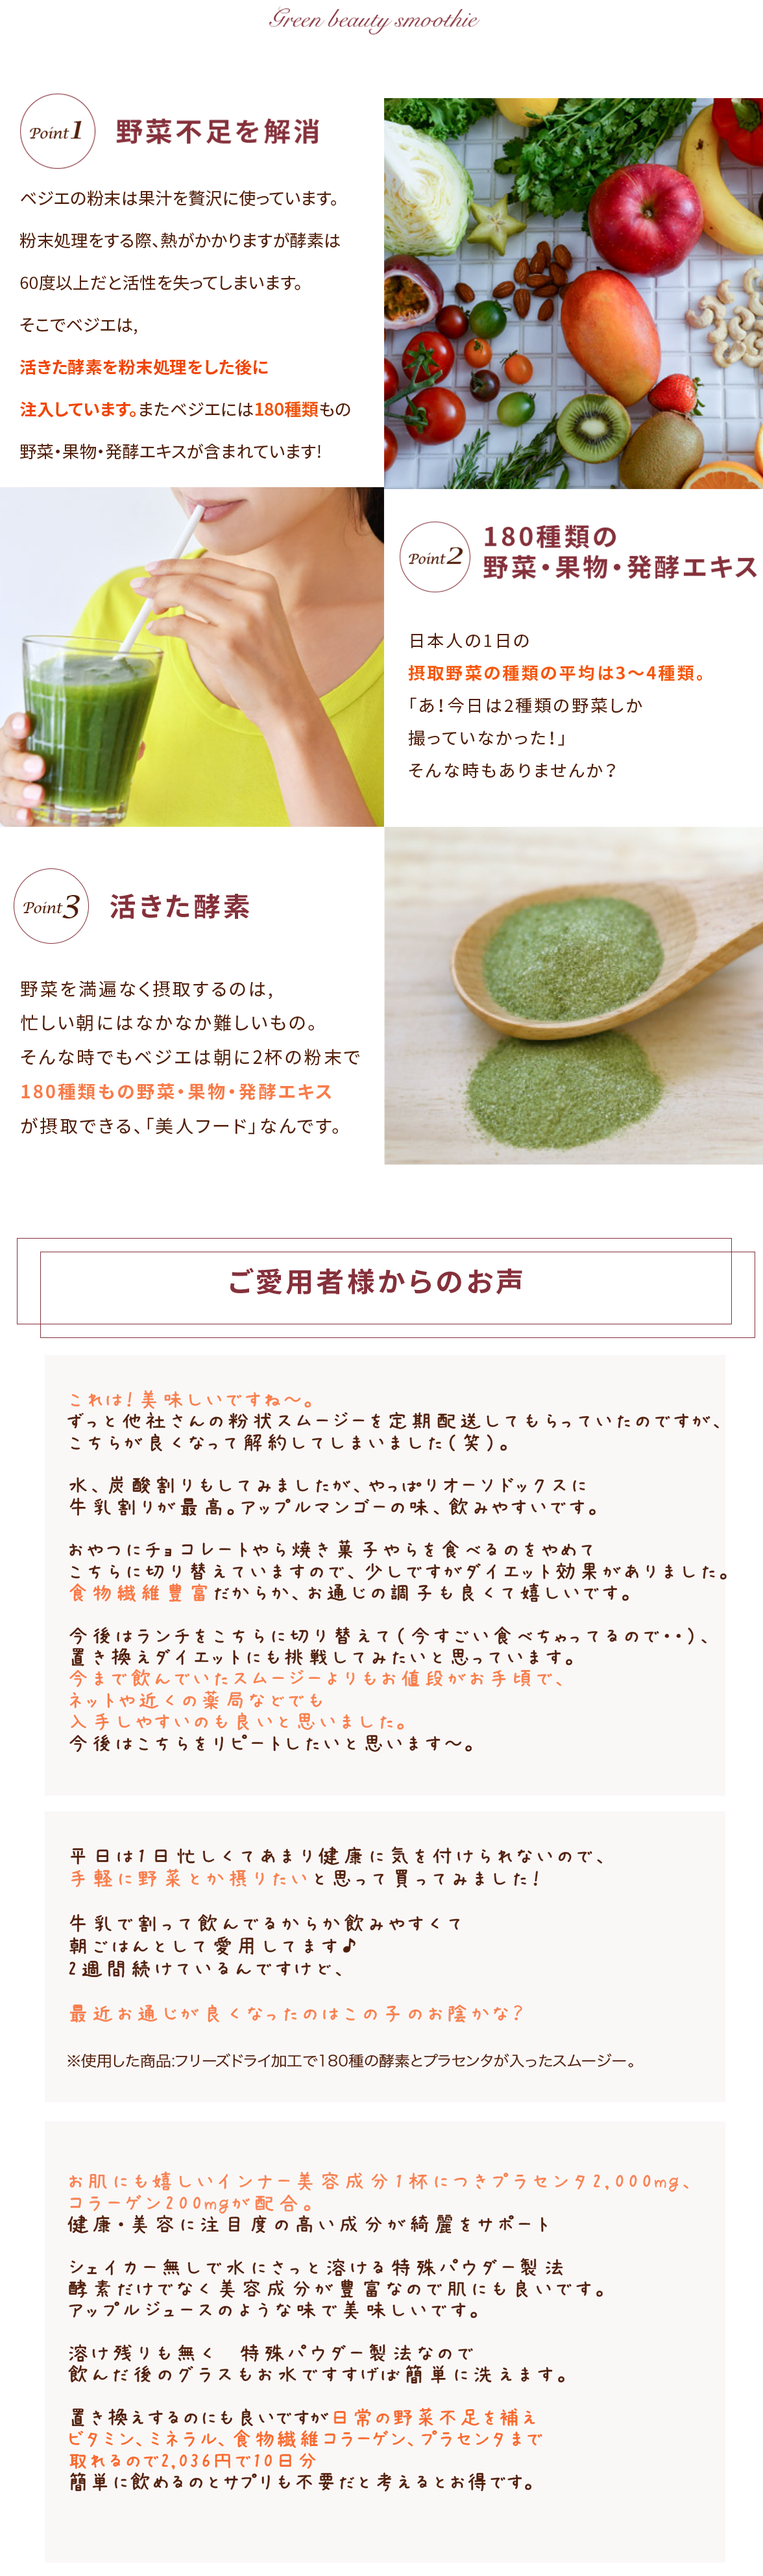
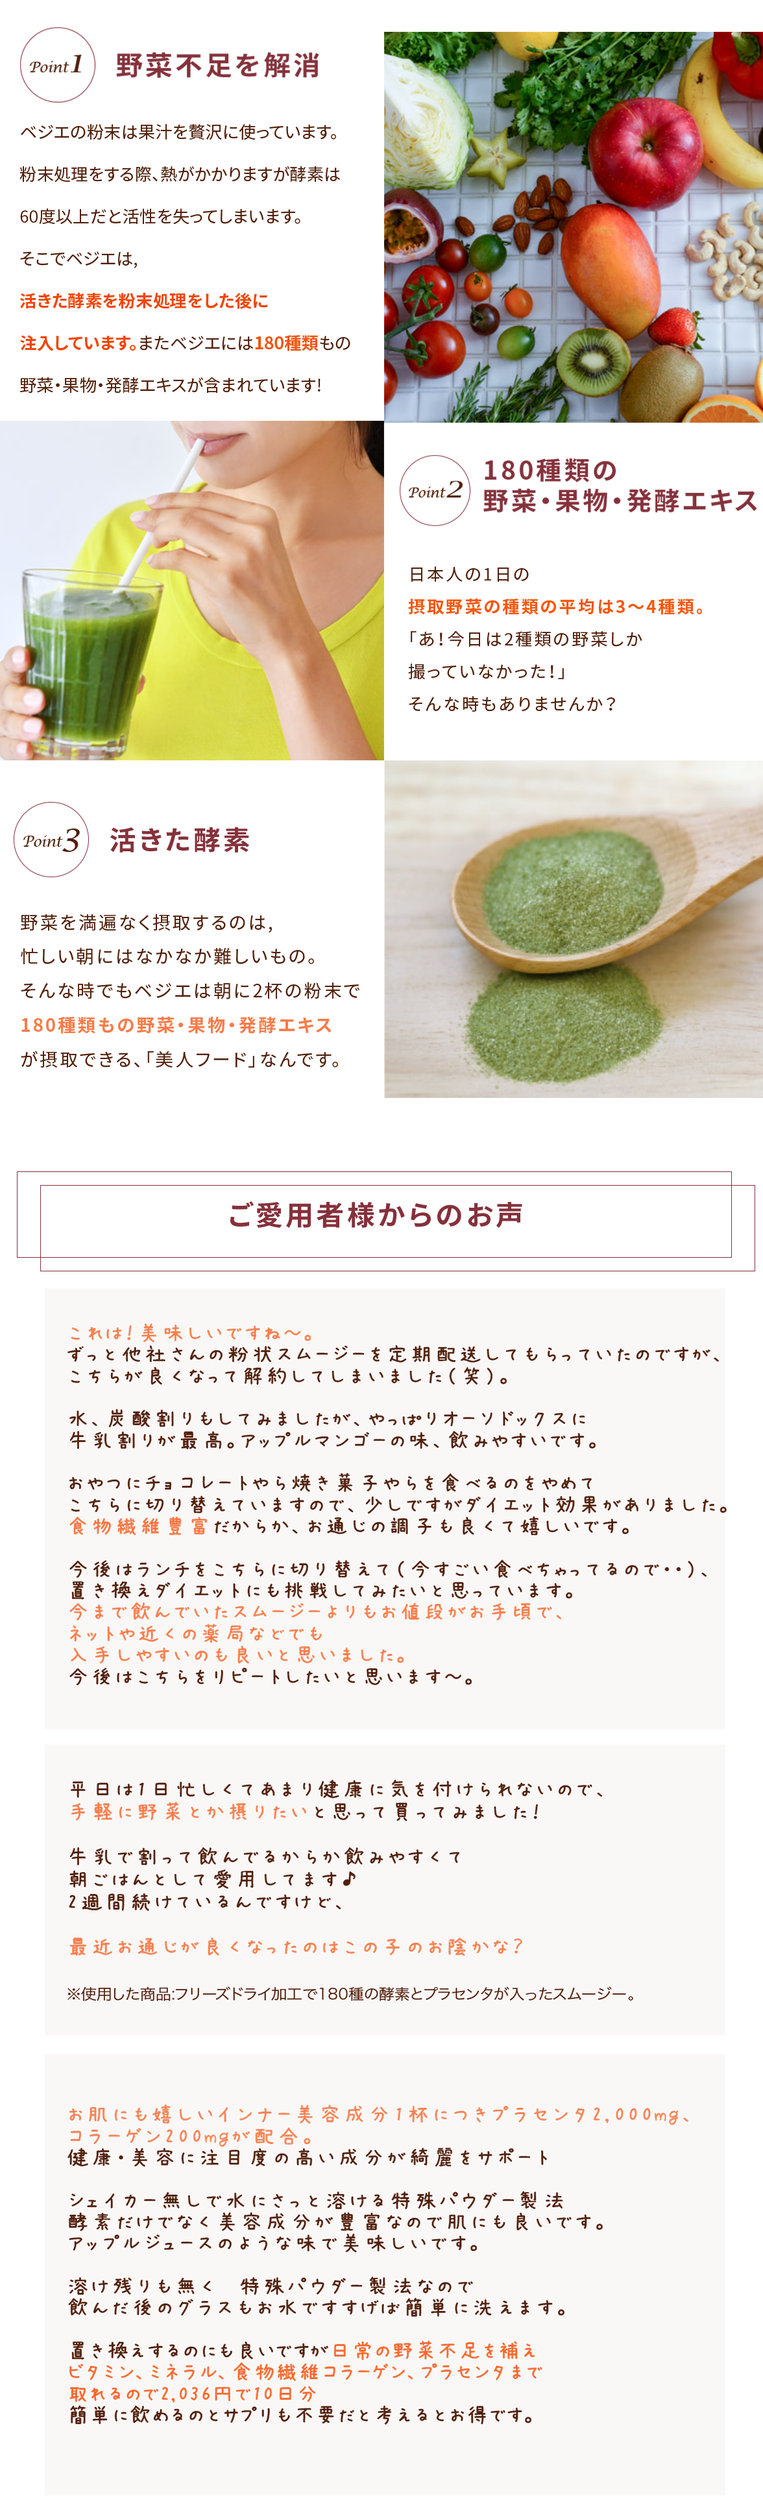
1200pxWidthScreen

diff --git a/index.html b/index.html
@@ -32,15 +32,17 @@
         <br>
         <div class="container boxshadow">
             <div class="ctn" style="width:98%; margin: 0 auto;">
-                <div class="left_btn"></div>
-                <div class="right_btn"></div>
                 <center>
-                    <img class="sp" src="images/btn_sp.png" / width="80%" style="padding:1.5em 0;">
+                    <img class="sp" src="images/btn_sp.png" width="80%" style="padding:1.5em 0;/">
                 </center>
                 <div class="download-info">
-                    <center class="title">
-                        <img src="images/image2_header.png" />
-                    </center>
+                        <div class="left_btn"></div>
+                        <div class="right_btn"></div>
+                        <span class="sp-title">
+                             <img  src="images/image2_header.png"/>
+                        </span>
+                        <br><br>
+                        <img class="pc"  src="images/image2_header.png"/>
                     <p>
                         <br>
                         <span class="emphasis">従業員の健康管理</span>
@@ -120,7 +122,7 @@
                     朝ごはんを抜く従業員が沢山いることを 経営者のみなさんは知っていますか？
                     <br>
                     <br> 朝食は抜いても大丈夫！そんなことはありません。
-                    <br> 健康だけでなく美容にも 良いベジエのグリーンスムージー。
+                    <br> 健康だけでなく美容にも 良いベジエのグリーン酵素スムージー。
                     <br>
                     <br> 生きたままの酵素が入ったベジエには、 腸内環境を整える作用があります。
                     <br> 腸は第二の脳とも言われるとても大切な器官。
@@ -149,8 +151,8 @@
                     <h2><i class="fa fa-circle-o" aria-hidden="true"></i>モニター規約・本規約</h2>
                 </header>
                 <ul class="default">
-                    <li class="disable"> <i class="fa fa-check fa-lg" aria-hidden="true"></i>会社の経営者様。(女性社員5名以上。)</li>
-                    <li class="disable"> <i class="fa fa-check fa-lg" aria-hidden="true"></i>1ヶ月間、ベジエグリーンスムージーをお試しいただき、 SNSアカウントでの拡散、感想アンケートにお答えいただける方。
+                    <li class="disable"> <i class="fa fa-check fa-lg" aria-hidden="true"></i>会社の経営者様。</li>
+                    <li class="disable"> <i class="fa fa-check fa-lg" aria-hidden="true"></i>1ヶ月間、ベジエグリーン酵素スムージーをお試しいただき、 SNSアカウントでの拡散、感想アンケートにお答えいただける方。
                     </li>
                     <li class="disable"> <i class="fa fa-check fa-lg" aria-hidden="true"></i>SNSアカウントをお持ちの方(Facebook、Twitter、Instagram)</li>
                     <li class="disable"> <i class="fa fa-check fa-lg" aria-hidden="true"></i>美容、健康、食事等に興味のある方</li>
@@ -164,7 +166,7 @@
                     <h2><i class="fa fa-circle-o" aria-hidden="true"></i>賞金</h2>
                 </header>
                 <ul class="default">
-                    <li class="disable">ベジエ酵素グリーンスムージー 10袋</li>
+                    <li class="disable">ベジエ酵素グリーン酵素スムージー 10袋</li>
                 </ul>
             </section>
             <!-- 抽選発表-->
@@ -306,7 +308,7 @@
             <ul class="default">
                 <li class="disable">
                     参加者募集期間:2017年10月13日(金)〜10/27(金)
-                    <br> 本キャンペーン概要:ベジエ(グリーンスムージー)のご試飲
+                    <br> 本キャンペーン概要:ベジエ(グリーン酵素スムージー)のご試飲
                     <br> 参加者:参加者は以下の事項に該当する方に限定させていただきますので、
                     <br> あらかじめご了承ください。
                     <br>
@@ -321,7 +323,8 @@
     <br>
     <br>
     <article class="five-col">
-        <div class="container"></div>
+    <center><img src="images/image5_header.png" width="30%"></center>
+    <div class="container"></div>
     </article>
     <article class="five-col-sp">
         <div class="container">
@@ -479,7 +482,7 @@
                 </header>
                 <ul class="default">
                     <li class="disable"> <i class="fa fa-check fa-lg" aria-hidden="true"></i>会社の経営者様。(女性社員5名以上。)</li>
-                    <li class="disable"> <i class="fa fa-check fa-lg" aria-hidden="true"></i>1ヶ月間、ベジエグリーンスムージーをお試しいただき、 SNSアカウントでの拡散、感想アンケートにお答えいただける方。
+                    <li class="disable"> <i class="fa fa-check fa-lg" aria-hidden="true"></i>1ヶ月間、ベジエグリーン酵素スムージーをお試しいただき、 SNSアカウントでの拡散、感想アンケートにお答えいただける方。
                     </li>
                     <li class="disable"> <i class="fa fa-check fa-lg" aria-hidden="true"></i>SNSアカウントをお持ちの方(Facebook、Twitter、Instagram)</li>
                     <li class="disable"> <i class="fa fa-check fa-lg" aria-hidden="true"></i>美容、健康、食事等に興味のある方</li>
@@ -493,7 +496,7 @@
                     <h2><i class="fa fa-circle-o" aria-hidden="true"></i>賞金</h2>
                 </header>
                 <ul class="default">
-                    <li class="disable">ベジエ酵素グリーンスムージー 10袋</li>
+                    <li class="disable">ベジエ酵素グリーン酵素スムージー 10袋</li>
                 </ul>
             </section>
             <!-- 抽選発表-->
@@ -636,7 +639,7 @@
             <ul class="default">
                 <li class="disable">
                     参加者募集期間:2017年10月13日(金)〜10/27(金)
-                    <br> 本キャンペーン概要:ベジエ(グリーンスムージー)のご試飲
+                    <br> 本キャンペーン概要:ベジエ(グリーン酵素スムージー)のご試飲
                     <br> 参加者:参加者は以下の事項に該当する方に限定させていただきますので、
                     <br> あらかじめご了承ください。
                     <br>
@@ -707,7 +710,7 @@
                 </header>
                 <ul class="default">
                     <li class="disable"> <i class="fa fa-check fa-lg" aria-hidden="true"></i>会社の経営者様。(女性社員5名以上。)</li>
-                    <li class="disable"> <i class="fa fa-check fa-lg" aria-hidden="true"></i>1ヶ月間、ベジエグリーンスムージーをお試しいただき、 SNSアカウントでの拡散、感想アンケートにお答えいただける方。
+                    <li class="disable"> <i class="fa fa-check fa-lg" aria-hidden="true"></i>1ヶ月間、ベジエグリーン酵素スムージーをお試しいただき、 SNSアカウントでの拡散、感想アンケートにお答えいただける方。
                     </li>
                     <li class="disable"> <i class="fa fa-check fa-lg" aria-hidden="true"></i>SNSアカウントをお持ちの方(Facebook、Twitter、Instagram)</li>
                     <li class="disable"> <i class="fa fa-check fa-lg" aria-hidden="true"></i>美容、健康、食事等に興味のある方</li>
@@ -721,7 +724,7 @@
                     <h2><i class="fa fa-circle-o" aria-hidden="true"></i>賞金</h2>
                 </header>
                 <ul class="default">
-                    <li class="disable">ベジエ酵素グリーンスムージー 10袋</li>
+                    <li class="disable">ベジエ酵素グリーン酵素スムージー 10袋</li>
                 </ul>
             </section>
             <!-- 抽選発表-->
@@ -864,7 +867,7 @@
             <ul class="default">
                 <li class="disable">
                     参加者募集期間:2017年10月13日(金)〜10/27(金)
-                    <br> 本キャンペーン概要:ベジエ(グリーンスムージー)のご試飲
+                    <br> 本キャンペーン概要:ベジエ(グリーン酵素スムージー)のご試飲
                     <br> 参加者:参加者は以下の事項に該当する方に限定させていただきますので、
                     <br> あらかじめご了承ください。
                     <br>

diff --git a/assets/css/original.css b/assets/css/original.css
@@ -31,7 +31,7 @@
     height: 100px;
 }
 body {
-    max-width: 1480px;
+    max-width: 1200px;
     margin: 0 auto;
     -webkit-box-shadow: 2px 4px 27px 3px rgba(0, 0, 0, 0.75);
     -moz-box-shadow: 2px 4px 27px 3px rgba(0, 0, 0, 0.75);
@@ -89,8 +89,8 @@ body {
 #hero {
     background: url("images/image1.jpg") no-repeat;
     background-position: top center;
-    background-size: cover;
-    min-height: 1250px;
+    background-size: contain;
+    min-height: 900px;
 }
 .sp-title img {
     display: none;
@@ -124,23 +124,23 @@ body {
     background: url("images/image2_bg.jpg") no-repeat;
     display: block;
     background-size: cover;
-    height:1700px;
+    height:1800px;
 }
 .second-col .container {
     background-color: white;
     border-radius: 5px;
     top: 10em;
-    width: 85%;
+    width: 90%;
     margin: 0 auto;
 }
 .download-info {
     width: 100%;
-    padding: 3em 2em 1em 5em;
+    padding: 3em 2em 1em 3em;
     background: url("images/image3.png") bottom right no-repeat;
 }
 .download-info-3 {
     width: 100%;
-    padding: 6em 2em 1em 5em;
+    padding: 3em 2em 1em 5em;
     background: url("images/image3_3.png") bottom right no-repeat;
 }
 .download-info-2 p .right {
@@ -150,7 +150,7 @@ body {
 }
 .download-info-2 img {
     float: left;
-    padding: 0em 8em 2em 2em;
+    padding: 0em 3em 2em 2em;
 }
 .download-info p .emphasis,
 .download-info-2 p .emphasis,
@@ -198,8 +198,14 @@ body {
 
 @media only screen and (max-width: 1024px) {
     .second-col {
-        height: 1300px
+        height: 1500px;
+        background-size: cover;
     }
+    .second-col .container{
+        height:1400px;
+
+    }
+
     .download-info,
     .download-info-2,
     .download-info-3 {
@@ -286,7 +292,7 @@ body {
     background: url("images/image3_bg.jpg") no-repeat;
     display: block;
     background-size: cover;
-    height: 1600px;
+    height: 1300px;
 }
 .three-col .container {
     background: url("images/image3_bg_cnt_2.png") no-repeat;
@@ -315,7 +321,7 @@ body {
     background: url("images/image4_bg.jpg") no-repeat;
     display: block;
     background-size: contain;
-    height: 1210px;
+    height: 980px;
     background-position: top center;
 }
 /*ipad-*/
@@ -346,7 +352,7 @@ body {
     background: url("images/image5_bg.png") no-repeat;
     display: block;
     background-size: contain;
-    height: 4000px;
+    height: 3300px;
     margin: 0 auto;
 }
 .three-col-sp,
